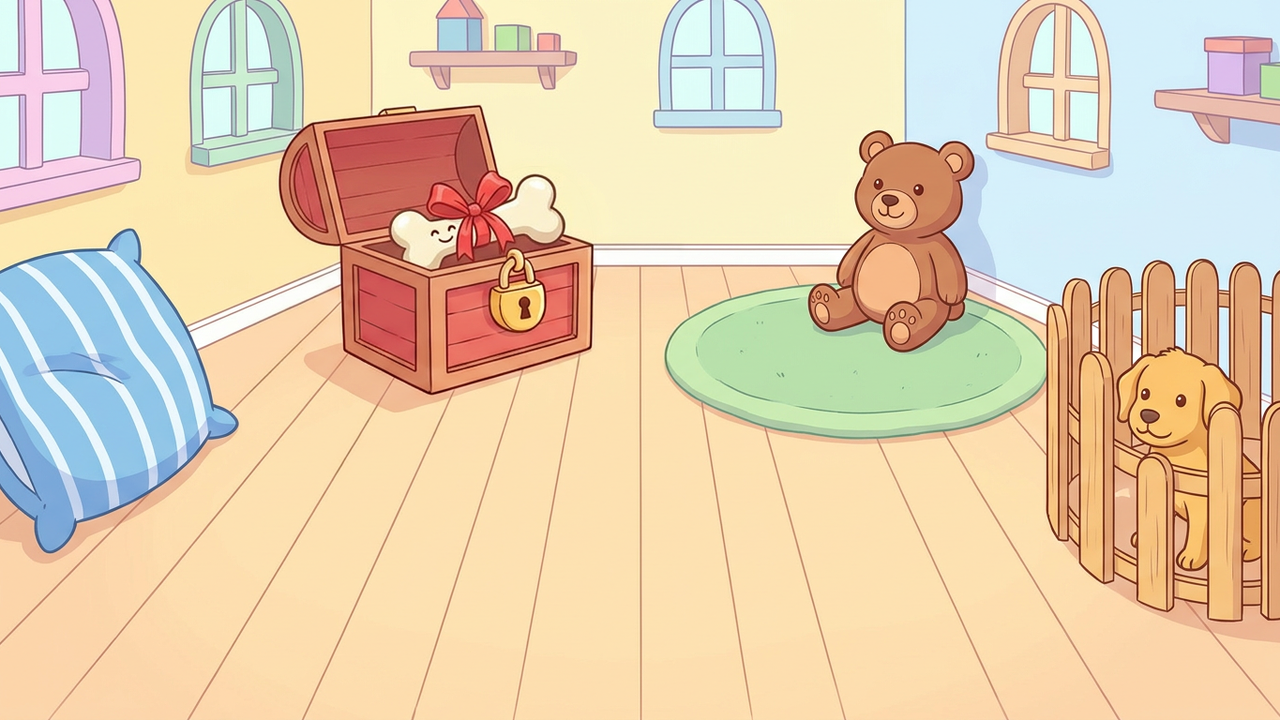
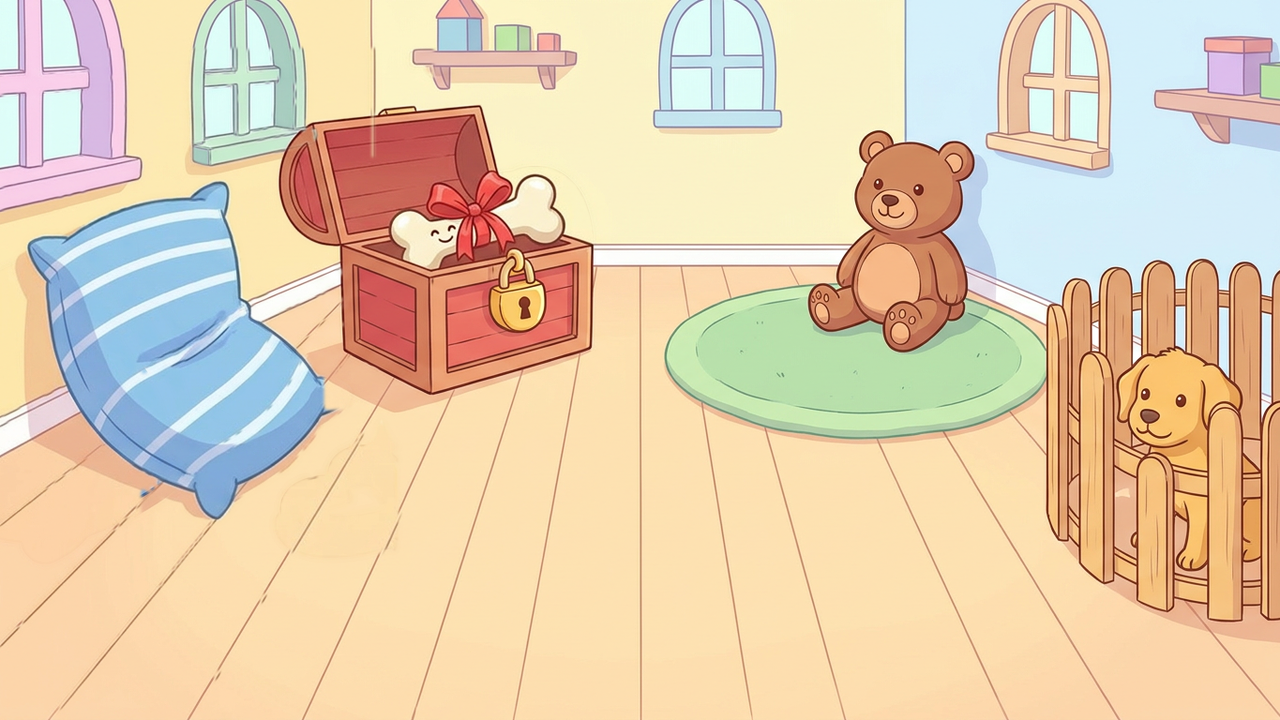
fix(escape): toyroom re-extraction + chain-scene cleaning + chain-aware gate base
Plate restored outside silhouettes (0.38 -> 0.10). Sheets re-extracted
with the plate-keyed pipeline:
- pillow bbox 0,109,372,542 -> 0,101,536,558: the golden heart key sat
  ON the old right edge and the settled frame sliced it in half (six
  sev3 findings); it is now whole
- pen: take replaced — the old sheet's take was the judged broken-fence
  mess (floating fence fragments, sliced puppies) and its source clip
  no longer exists; the deployed/phase2 take is clean and fully
  sourced; bbox extends left to x=725 for the puppy's walk
- chest bbox widened for the leftward lid swing

Chain-scene cleaning (new pre-pass in reextract_room.py): every chain
state file is rebuilt as its predecessor plus only the change within
the acting hotspot's reach, minus sibling current-state footprints
(keyed against the plate — a moved pillow is not at its SAM position).
This removes wholesale regeneration drift from the state files: the
chest scenes carried a re-rendered pillow whose outline survived every
downstream mask as a gold squiggle across the pillow at held state.
Removed noise: pillow_taken 1.58, chest_reveal 5.47, chest_taken 5.49,
s2 7.63 (mean px).

Gate is now chain-aware: _build_full_runtime_base draws earlier-chain
siblings as their LAST frames and later ones at rest — the old
all-rests base only passed because noise-rect overlays baked sibling
states (the blind spot behind the all-held hazard). verify_sprite
[…]

diff --git a/tools/escape_layers/reextract_room.py b/tools/escape_layers/reextract_room.py
@@ -65,6 +65,101 @@ after_diff = np.abs(clean_new.astype(np.float32) - orig).mean(-1)[~keep].mean()
 Image.fromarray(clean_new).save(clean_path)
 print(f'[{room_id}] plate restored: outside-silhouette diff {before_diff:.2f} -> {after_diff:.2f}', flush=True)
 
+# ---- 1b. chain-scene cleaning ----
+# Each afterScene is a Veo/NBP regeneration that drifts everywhere, not
+# just where the action changed things. Rebuild every chain scene as its
+# (cleaned) predecessor plus only the strong intended change, so state
+# files are honest edits of the chain and held-vs-after keying is clean.
+from scipy.ndimage import binary_propagation, binary_opening, binary_dilation as _bd, binary_fill_holes
+from PIL import ImageFilter
+
+def hotspot_reach(h):
+    """Where this hotspot's action can legitimately change the scene:
+    its draw bbox + margin, its silhouette, its rest rect."""
+    reach = np.zeros((720, 1280), dtype=bool)
+    sp = h.get('sprite', {})
+    for key, pad in (('bbox', 60), ('restBbox', 20)):
+        bbv = sp.get(key)
+        if bbv:
+            y0 = max(0, bbv['y'] - pad); x0 = max(0, bbv['x'] - pad)
+            reach[y0:bbv['y']+bbv['h']+pad, x0:bbv['x']+bbv['w']+pad] = True
+    sam_name = SAM_FOR_HOTSPOT.get((room_id, h['id']), f"{room_id}_{h['id']}")
+    sp_mask = scenes / 'sam_masks' / f'{sam_name}.png'
+    if sp_mask.exists():
+        reach |= _bd(np.array(Image.open(sp_mask).convert('L')) > 0, iterations=20)
+    return reach
+
+def clean_chain_scene(before_arr, after_path, reach, actor_zone):
+    after = np.array(Image.open(after_path).convert('RGB').resize((1280, 720), Image.LANCZOS))
+    d = np.abs(after.astype(np.int16) - before_arr.astype(np.int16)).sum(-1)
+    strong = binary_opening(d > 90, iterations=2)
+    mask = binary_propagation(strong, mask=d > 24)
+    # propagation regrows thin regen-noise rings (sibling outlines that
+    # rendered a pixel off) from tiny strong seeds — erode them back out
+    mask = binary_opening(mask, iterations=2)
+    # where two poses of the same object overlap, interior pixels can
+    # agree by luck and punch holes that mix both renders (ghost stripes)
+    mask = binary_fill_holes(mask)
+    # an action only changes the scene within the acting hotspot's reach;
+    # everything else is regeneration drift, no matter how strong
+    mask &= reach
+    # the before scene already shows every sibling in its current state
+    # (a moved pillow is NOT at its SAM position) — its plate-keyed
+    # footprint minus the actor's own zone is sibling territory, and the
+    # action cannot repaint siblings even inside its reach rect
+    dfp = np.abs(before_arr.astype(np.int16) - plate_arr.astype(np.int16)).sum(-1)
+    fp = binary_propagation(binary_opening(dfp > 90, iterations=2), mask=dfp > 24)
+    mask &= ~(fp & ~actor_zone)
+    mask = _bd(mask, iterations=2)
+    w_soft = np.array(Image.fromarray((mask * 255).astype(np.uint8), 'L')
+                      .filter(ImageFilter.GaussianBlur(1.5))).astype(np.float32) / 255.0
+    out = before_arr.astype(np.float32) * (1 - w_soft[..., None]) + after.astype(np.float32) * w_soft[..., None]
+    out = np.clip(out, 0, 255).astype(np.uint8)
+    changed = float(np.abs(out.astype(np.float32) - after.astype(np.float32)).mean())
+    Image.fromarray(out).save(after_path)
+    return changed, mask
+
+def actor_zone_of(h):
+    zone = np.zeros((720, 1280), dtype=bool)
+    sam_name = SAM_FOR_HOTSPOT.get((room_id, h['id']), f"{room_id}_{h['id']}")
+    sp_mask = scenes / 'sam_masks' / f'{sam_name}.png'
+    if sp_mask.exists():
+        zone |= _bd(np.array(Image.open(sp_mask).convert('L')) > 0, iterations=10)
+    rbv = h.get('sprite', {}).get('restBbox')
+    if rbv:
+        zone[rbv['y']:rbv['y']+rbv['h'], rbv['x']:rbv['x']+rbv['w']] = True
+    return zone
+
+plate_arr = clean_new.astype(np.int16)
+ZERO = np.zeros((720, 1280), dtype=bool)
+actor_changed = {}
+prev = np.array(Image.open(scenes / f'{room_id}.png').convert('RGB').resize((1280, 720), Image.LANCZOS))
+seen = set()
+prev_h = None
+for h in room['hotspots']:
+    sp = h.get('sprite', {})
+    if not sp.get('sheet'):
+        continue
+    bpath = ROOT / 'assets/game' / sp['beforeScene']
+    apath = ROOT / 'assets/game' / sp['afterScene']
+    if str(bpath) not in seen and bpath.name != f'{room_id}.png':
+        # the before scene is the previous hotspot's post-collect state
+        ah = prev_h if prev_h else h
+        az = actor_zone_of(ah) | actor_changed.get(ah['id'], ZERO)
+        chg, msk = clean_chain_scene(prev, bpath, hotspot_reach(ah), az)
+        actor_changed[ah['id']] = actor_changed.get(ah['id'], ZERO) | msk
+        seen.add(str(bpath))
+        print(f'[{room_id}] chain-clean {bpath.name}: noise removed mean {chg:.2f}', flush=True)
+    prev = np.array(Image.open(bpath).convert('RGB').resize((1280, 720), Image.LANCZOS))
+    if str(apath) not in seen:
+        az = actor_zone_of(h) | actor_changed.get(h['id'], ZERO)
+        chg, msk = clean_chain_scene(prev, apath, hotspot_reach(h), az)
+        actor_changed[h['id']] = actor_changed.get(h['id'], ZERO) | msk
+        seen.add(str(apath))
+        print(f'[{room_id}] chain-clean {apath.name}: noise removed mean {chg:.2f}', flush=True)
+    prev = np.array(Image.open(apath).convert('RGB').resize((1280, 720), Image.LANCZOS))
+    prev_h = h
+
 # ---- 2. re-extract sheets ----
 for h in room['hotspots']:
     sp = h.get('sprite', {})

diff --git a/tools/verify_escape_chain.py b/tools/verify_escape_chain.py
@@ -932,45 +932,67 @@ def _get_base_for_sprite(room_id: str, sprite: dict) -> np.ndarray:
 
 
 def _build_full_runtime_base(room_id: str, hotspot_id: str, sprite: dict) -> np.ndarray:
-    """Build the compositing base with ALL sibling rest layers.
+    """Build the chain-aware compositing base for a hotspot.
 
-    At runtime, when a hotspot animates, all OTHER hotspots' rest layers
-    remain visible on the clean plate. This function builds that composite
-    so verify_sprite can account for sibling content that legitimately
-    shows through transparent sprite pixels (especially after sibling-mask
-    subtraction).
-    """
+    At the moment a hotspot settles, siblings EARLIER in the chain have
+    already been used — the runtime draws their LAST frames — while
+    LATER siblings are still at rest. Comparing against an afterScene
+    (a chain-state snapshot) is only honest against this base; using
+    rests for everyone silently required each sprite to bake its
+    siblings' states (the all-held hazard)."""
     base = _get_base_for_sprite(room_id, sprite)
     if not sprite.get("rest"):
         return base
 
+    def draw(layer_rgba: np.ndarray, bx: int, by: int, bw: int, bh: int) -> None:
+        nonlocal base
+        if layer_rgba.shape[:2] != (bh, bw):
+            layer_rgba = np.array(
+                Image.fromarray(layer_rgba).resize((bw, bh), Image.LANCZOS)
+            )
+        alpha = layer_rgba[:, :, 3:4].astype(np.float32) / 255.0
+        base_f = base.astype(np.float32)
+        base_f[by:by + bh, bx:bx + bw] = (
+            base_f[by:by + bh, bx:bx + bw] * (1 - alpha)
+            + layer_rgba[:, :, :3].astype(np.float32) * alpha
+        )
+        base = np.clip(base_f, 0, 255).astype(np.uint8)
+
     m = json.loads(MANIFEST.read_text())
+    before_me = True
     for room in m.get("escape", []):
         if room["id"] != room_id:
             continue
         for h in room.get("hotspots", []):
             if h["id"] == hotspot_id:
+                before_me = False
                 continue
             sib_sp = h.get("sprite", {})
-            rest_file = sib_sp.get("rest")
-            rb = sib_sp.get("restBbox")
-            if not rest_file or not rb:
-                continue
-            rest_path = SPRITES / rest_file
-            if not rest_path.exists():
-                continue
-            rest = np.array(Image.open(rest_path))
-            rx, ry, rw, rh = rb["x"], rb["y"], rb["w"], rb["h"]
-            rest_resized = np.array(
-                Image.fromarray(rest).resize((rw, rh), Image.LANCZOS)
-            )
-            alpha = rest_resized[:, :, 3:4].astype(np.float32) / 255.0
-            base_f = base.astype(np.float32)
-            base_f[ry:ry + rh, rx:rx + rw] = (
-                base_f[ry:ry + rh, rx:rx + rw] * (1 - alpha)
-                + rest_resized[:, :, :3].astype(np.float32) * alpha
-            )
-            base = np.clip(base_f, 0, 255).astype(np.uint8)
+            if before_me and sib_sp.get("sheet"):
+                sheet_path = SPRITES / sib_sp["sheet"]
+                bb = sib_sp.get("bbox")
+                if not sheet_path.exists() or not bb:
+                    continue
+                sheet = np.array(Image.open(sheet_path))
+                cols = sib_sp["cols"]
+                fc = sib_sp["frameCount"]
+                rows_g = (fc + cols - 1) // cols
+                fh = sheet.shape[0] // rows_g
+                fw = sheet.shape[1] // cols
+                li = fc - 1
+                lf = sheet[(li // cols) * fh:(li // cols + 1) * fh,
+                           (li % cols) * fw:(li % cols + 1) * fw]
+                draw(lf, bb["x"], bb["y"], bb["w"], bb["h"])
+            else:
+                rest_file = sib_sp.get("rest")
+                rb = sib_sp.get("restBbox")
+                if not rest_file or not rb:
+                    continue
+                rest_path = SPRITES / rest_file
+                if not rest_path.exists():
+                    continue
+                rest = np.array(Image.open(rest_path))
+                draw(rest, rb["x"], rb["y"], rb["w"], rb["h"])
     return base
 
 
@@ -1043,8 +1065,12 @@ def verify_sprite(room_id: str, hotspot_id: str, sprite: dict) -> tuple[str, flo
     target = after[y:y + h, x:x + w]
     delta = np.abs(roi.astype(np.int16) - target.astype(np.int16))
 
-    alpha_mask = last_frame[:, :, 3] > 0
-    coverage = float(alpha_mask.mean()) * 100
+    coverage = float((last_frame[:, :, 3] > 0).mean()) * 100
+    # opaque core only: feathered pixels blend base with content by
+    # design, and the base is chain-aware runtime state, not the
+    # afterScene snapshot — comparing the feather to the snapshot would
+    # re-require baked sibling states
+    alpha_mask = last_frame[:, :, 3] >= 250
 
     if alpha_mask.any():
         mean_d = float(delta[alpha_mask].mean())

diff --git a/tools/escape_layers/extract_sprites.py b/tools/escape_layers/extract_sprites.py
@@ -423,6 +423,23 @@ def extract_sprite_sheet(
         strong = ndimage.binary_opening(delta_plate > 90, iterations=1)
         weak = delta_plate > 24
         after_mask = ndimage.binary_propagation(strong, mask=weak)
+        # erode thin regen-noise rings regrown by the propagation, then
+        # close pose-overlap holes (two renders agreeing by luck)
+        after_mask = ndimage.binary_opening(after_mask, iterations=2)
+        after_mask = ndimage.binary_fill_holes(after_mask)
+        # constrain to own territory: an unconstrained plate key also
+        # covers SIBLINGS in their chain state (a moved pillow, an open
+        # crate), which then double-draws over the sibling's own layer
+        t_crop = scene_mask[
+            bbox["y"]:bbox["y"] + bbox["h"],
+            bbox["x"]:bbox["x"] + bbox["w"],
+        ].copy()
+        if object_mask_scene is not None:
+            t_crop |= ndimage.binary_dilation(object_mask_scene, iterations=3)[
+                bbox["y"]:bbox["y"] + bbox["h"],
+                bbox["x"]:bbox["x"] + bbox["w"],
+            ]
+        after_mask &= ndimage.binary_dilation(t_crop, iterations=4)
         if object_mask_scene is not None:
             after_mask |= object_mask_scene[
                 bbox["y"]:bbox["y"] + bbox["h"],
